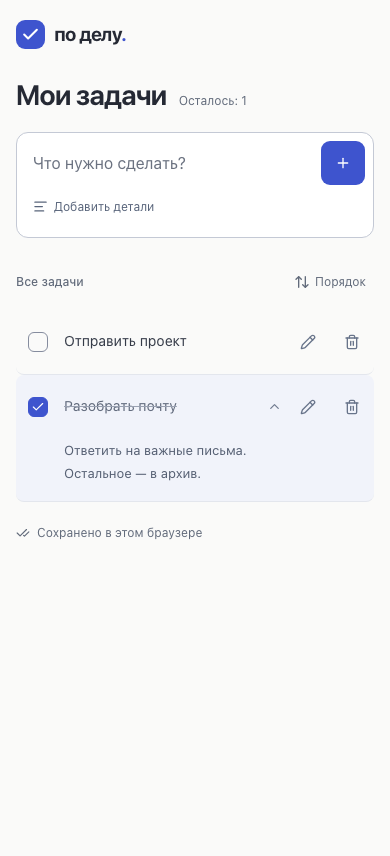
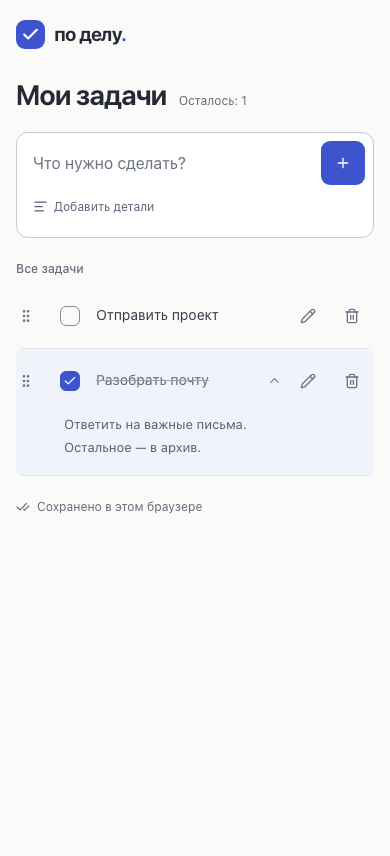
Make task drag handles immediately available without a mode switch

diff --git a/e2e/tasks.spec.ts b/e2e/tasks.spec.ts
@@ -28,8 +28,6 @@ async function keyboardMove(
   key: 'ArrowUp' | 'ArrowDown',
   target: string,
 ) {
-  const order = page.getByRole('button', { name: 'Порядок', exact: true })
-  if (await order.count()) await order.click()
   const handle = page.getByRole('button', { name: `Переместить: ${title}`, exact: true })
   await handle.focus()
   await page
@@ -474,7 +472,6 @@ test('pointer drag reorders by the handle, persists and does not toggle or expan
   await addTask(page, 'Первое')
   await addTask(page, 'Второе')
   await addTask(page, 'Третье')
-  await page.getByRole('button', { name: 'Порядок', exact: true }).click()
   await page.getByRole('button', { name: 'Переместить: Третье', exact: true }).focus()
   await page
     .locator('.task-list')
@@ -491,7 +488,7 @@ test('pointer drag reorders by the handle, persists and does not toggle or expan
   ).toHaveCount(1)
   const to = await page.locator('.task-list > .task-item:not([inert])').last().boundingBox()
   if (!to) throw new Error('Drop target must be rendered')
-  await page.mouse.move(to.x + to.width / 2, to.y + to.height / 2, { steps: 12 })
+  await page.mouse.move(from.x + from.width / 2, to.y + to.height / 2, { steps: 12 })
   await expect(
     page.locator('.task-list > .task-item:not([inert])[data-over="true"]').locator('.task-label'),
   ).toHaveText('Первое')
@@ -513,7 +510,6 @@ test('keyboard drag supports reorder and Escape cancellation', async ({ page }) 
   await addTask(page, 'Первое')
   await addTask(page, 'Второе')
   await addTask(page, 'Третье')
-  await page.getByRole('button', { name: 'Порядок', exact: true }).click()
   const handle = page.getByRole('button', { name: 'Переместить: Третье', exact: true })
   await handle.focus()
   await page
@@ -552,7 +548,6 @@ test('external updates during a drag cancel its commit instead of applying stale
   await addTask(page, 'Второе')
   const other = await context.newPage()
   await other.goto('/')
-  await page.getByRole('button', { name: 'Порядок', exact: true }).click()
   const handle = page.getByRole('button', { name: 'Переместить: Второе', exact: true })
   await handle.focus()
   await page
@@ -748,7 +743,6 @@ test('storage recovery with identical tasks does not invalidate an active drag',
   await page
     .locator('.task-list')
     .evaluate((element) => element.scrollIntoView({ block: 'center' }))
-  await page.getByRole('button', { name: 'Порядок', exact: true }).click()
   await page.getByRole('button', { name: 'Переместить: Второе', exact: true }).focus()
   await page.keyboard.press('Space')
   await expect(
@@ -895,7 +889,7 @@ test('arrow fully hides both single-line and multiline descriptions after repeat
   await audit(page)
 })
 
-test('compact rows keep actions aligned and reveal handles only in order mode', async ({
+test('compact rows keep drag, edit and delete available without a mode switch', async ({
   page,
 }) => {
   await addTask(page, 'Без описания')
@@ -904,7 +898,7 @@ test('compact rows keep actions aligned and reveal handles only in order mode', 
   await expect(
     page.getByRole('button', { name: 'Подробности: Без описания', exact: true }),
   ).toHaveCount(0)
-  await expect(page.getByRole('button', { name: /^Переместить:/ })).toHaveCount(0)
+  await expect(page.getByRole('button', { name: /^Переместить:/ })).toHaveCount(2)
   await expect(page.getByRole('listitem')).toHaveCount(2)
   const first = page.locator('.task-item').first()
   const row = await first.boundingBox()
@@ -914,13 +908,13 @@ test('compact rows keep actions aligned and reveal handles only in order mode', 
   expect(Math.abs(checkbox!.y + checkbox!.height / 2 - edit!.y - edit!.height / 2)).toBeLessThan(1)
   expect(edit!.width).toBeGreaterThanOrEqual(44)
   expect(edit!.height).toBeGreaterThanOrEqual(44)
-  await page.getByRole('button', { name: 'Порядок', exact: true }).press('Enter')
-  await expect(page.getByRole('button', { name: /^Переместить:/ })).toHaveCount(2)
-  await expect(page.getByRole('button', { name: /^Изменить:/ })).toHaveCount(0)
-  await audit(page)
-  await page.getByRole('button', { name: 'Готово', exact: true }).press('Enter')
-  await expect(page.getByRole('button', { name: /^Переместить:/ })).toHaveCount(0)
+  await expect(page.getByRole('button', { name: 'Порядок', exact: true })).toHaveCount(0)
   await expect(page.getByRole('button', { name: /^Изменить:/ })).toHaveCount(2)
+  const handle = await first.getByRole('button', { name: /^Переместить:/ }).boundingBox()
+  expect(handle!.width).toBeGreaterThanOrEqual(44)
+  expect(handle!.height).toBeGreaterThanOrEqual(44)
+  expect(handle!.x).toBeGreaterThanOrEqual(0)
+  expect(handle!.x + handle!.width).toBeLessThanOrEqual(checkbox!.x - 12 + 1)
   await expect(page.getByRole('checkbox').first()).toBeEnabled()
   await expect(page.getByRole('button', { name: /^Удалить:/ }).first()).toBeEnabled()
   await expect(page.getByRole('menu')).toHaveCount(0)
@@ -979,7 +973,6 @@ test('touch drag by the handle reorders tasks and persists without completing th
   await addTask(page, 'Первое')
   await addTask(page, 'Второе')
   await addTask(page, 'Третье')
-  await page.getByRole('button', { name: 'Порядок', exact: true }).tap()
   await page
     .locator('.task-list')
     .evaluate((element) => element.scrollIntoView({ block: 'center' }))
@@ -1018,7 +1011,32 @@ test('touch drag by the handle reorders tasks and persists without completing th
     await expect(page.getByRole('checkbox', { checked: true })).toHaveCount(0)
     await page.reload()
     await expect(page.locator('.task-label')).toHaveText(['Второе', 'Первое', 'Третье'])
-    await expect(page.getByRole('button', { name: /^Переместить:/ })).toHaveCount(0)
+    await expect(page.getByRole('button', { name: /^Переместить:/ })).toHaveCount(3)
+    for (let index = 0; index < 8; index++) await addTask(page, `Дополнительная задача ${index}`)
+    await input(page).blur()
+    await page.evaluate(() => scrollTo(0, 0))
+    const beforeScroll = await page.locator('.task-label').allTextContents()
+    const viewport = page.viewportSize()!
+    const scrollStart = viewport.height - 100
+    const scrollPoint = (nextY: number) => [
+      { x: viewport.width / 2, y: nextY, id: 0, radiusX: 6, radiusY: 6, force: 1 },
+    ]
+    await session.send('Input.dispatchTouchEvent', {
+      type: 'touchStart',
+      touchPoints: scrollPoint(scrollStart),
+    })
+    for (let step = 1; step <= 12; step++) {
+      await session.send('Input.dispatchTouchEvent', {
+        type: 'touchMove',
+        touchPoints: scrollPoint(scrollStart - (220 * step) / 12),
+      })
+    }
+    await session.send('Input.dispatchTouchEvent', { type: 'touchEnd', touchPoints: [] })
+    await expect.poll(() => page.evaluate(() => scrollY)).toBeGreaterThan(40)
+    await expect(
+      page.locator('.task-list > .task-item:not([inert])[data-dragging="true"]'),
+    ).toHaveCount(0)
+    await expect(page.locator('.task-label')).toHaveText(beforeScroll)
   } finally {
     await session
       .send('Input.dispatchTouchEvent', { type: 'touchCancel', touchPoints: [] })

diff --git a/src/components/sortable-task-list.tsx b/src/components/sortable-task-list.tsx
@@ -12,7 +12,6 @@ import type { Task } from '@/domain/tasks'
 type Move = (id: string, overId: string, expected?: readonly Task[]) => void
 interface Props {
   tasks: readonly Task[]
-  ordering: boolean
   onToggle: (id: string) => void
   onDelete: (task: Task, index: number) => void
   onEdit: (task: Task) => void
@@ -26,7 +25,6 @@ function TaskRow({
   onToggle,
   onDelete,
   onEdit,
-  ordering,
 }: Props & { task: Task; index: number }) {
   const [open, setOpen] = useState(false)
   const hasDescription = !!task.description
@@ -37,7 +35,7 @@ function TaskRow({
   const { ref, handleRef, isDragSource, isDropTarget } = useSortable({
     id: task.id,
     index,
-    disabled: !ordering || tasks.length < 2,
+    disabled: tasks.length < 2,
     transition: null,
     // Keep React as the sole owner of list order, including during external updates.
     plugins: (defaults) => defaults.filter((plugin) => plugin !== OptimisticSortingPlugin),
@@ -52,7 +50,21 @@ function TaskRow({
         data-over={isDropTarget}
         data-done={task.done}
       >
-        <div className="task-row">
+        <div className="task-row" data-sortable={tasks.length > 1}>
+          {/* Keep a stable sensor target so dnd-kit never annotates the entire row as a button. */}
+          <Button
+            ref={handleRef}
+            id={`drag-${task.id}`}
+            variant="ghost"
+            size="icon"
+            className="drag-handle"
+            hidden={tasks.length < 2}
+            disabled={tasks.length < 2}
+            aria-label={`Переместить: ${task.title}`}
+          >
+            <GripVertical size={17} aria-hidden="true" />
+          </Button>
+
           <Checkbox
             id={`task-${task.id}`}
             checked={task.done}
@@ -79,32 +91,17 @@ function TaskRow({
             </span>
           )}
           <div className="task-actions">
-            {/* Keep a stable sensor target so dnd-kit never annotates the entire row as a button. */}
             <Button
-              ref={handleRef}
-              id={`drag-${task.id}`}
+              id={`edit-${task.id}`}
               variant="ghost"
               size="icon"
-              className="drag-handle"
-              hidden={!ordering || tasks.length < 2}
-              disabled={!ordering || tasks.length < 2}
-              aria-label={`Переместить: ${task.title}`}
+              className="edit-button"
+              onClick={() => onEdit(task)}
+              aria-label={`Изменить: ${task.title}`}
+              title="Редактировать задачу"
             >
-              <GripVertical size={17} aria-hidden="true" />
+              <Pencil size={16} aria-hidden="true" />
             </Button>
-            {(!ordering || tasks.length < 2) && (
-              <Button
-                id={`edit-${task.id}`}
-                variant="ghost"
-                size="icon"
-                className="edit-button"
-                onClick={() => onEdit(task)}
-                aria-label={`Изменить: ${task.title}`}
-                title="Редактировать задачу"
-              >
-                <Pencil size={16} aria-hidden="true" />
-              </Button>
-            )}
             <Button
               id={`delete-${task.id}`}
               variant="ghost"

diff --git a/src/App.tsx b/src/App.tsx
@@ -1,5 +1,5 @@
 import { useEffect, useLayoutEffect, useRef, useState, useSyncExternalStore } from 'react'
-import { Check, CheckCheck, ListTodo, RotateCcw, ArrowUpDown, TriangleAlert } from 'lucide-react'
+import { Check, CheckCheck, ListTodo, RotateCcw, TriangleAlert } from 'lucide-react'
 import { Button } from '@/components/ui/button'
 import { Alert, AlertTitle, AlertDescription } from '@/components/ui/alert'
 import type { Task } from '@/domain/tasks'
@@ -44,7 +44,6 @@ const storageMessages = {
 export default function App({ store, backend }: AppProps) {
   const snapshot = useSyncExternalStore(store.subscribe, store.getSnapshot)
   const { tasks, deleted, persistence } = snapshot
-  const [ordering, setOrdering] = useState(false)
   const [editing, setEditing] = useState<Task | null>(null)
   const [dragNotice, setDragNotice] = useState<string | null>(null)
   const pendingFocus = useRef<string | null>(null)
@@ -190,29 +189,7 @@ export default function App({ store, backend }: AppProps) {
               <h2 id="list-title">
                 Все задачи <span className="sr-only">{tasks.length}</span>
               </h2>
-              {(tasks.length > 1 || ordering) && (
-                <Button
-                  id="order-mode"
-                  variant="ghost"
-                  size="sm"
-                  className="order-button"
-                  aria-pressed={ordering}
-                  onClick={() => setOrdering((value) => !value)}
-                >
-                  {ordering ? (
-                    <Check size={15} aria-hidden="true" />
-                  ) : (
-                    <ArrowUpDown size={15} aria-hidden="true" />
-                  )}
-                  {ordering ? 'Готово' : 'Порядок'}
-                </Button>
-              )}
             </div>
-            {ordering && (
-              <p className="sort-hint" role="status">
-                Перетаскивайте задачи за ручку. С клавиатуры: пробел, стрелки, Enter.
-              </p>
-            )}
             {tasks.length === 0 ? (
               <div className="empty-state">
                 <ListTodo size={25} strokeWidth={1.5} aria-hidden="true" />
@@ -222,7 +199,6 @@ export default function App({ store, backend }: AppProps) {
             ) : (
               <SortableTaskList
                 tasks={tasks}
-                ordering={ordering}
                 onToggle={(id) => store.dispatch({ type: 'toggle', id })}
                 onDelete={removeTask}
                 onEdit={setEditing}

diff --git a/src/index.css b/src/index.css
@@ -261,24 +261,6 @@ textarea:focus-visible {
   color: #626b7b;
   font-weight: 500;
 }
-.order-button {
-  min-height: 44px;
-  height: auto;
-  padding: 0 8px;
-  font-size: 12px;
-  color: #626b7b;
-  gap: 5px;
-}
-.order-button[aria-pressed='true'] {
-  color: var(--primary);
-  background: #eef1fc;
-}
-.sort-hint {
-  margin: 0 0 10px;
-  color: #626b7b;
-  font-size: 12px;
-  line-height: 1.65;
-}
 .task-list {
   margin: 0;
   padding: 0;
@@ -291,6 +273,7 @@ textarea:focus-visible {
   border-radius: 8px;
 }
 .task-row {
+  position: relative;
   display: flex;
   align-items: center;
   gap: 0;
@@ -369,13 +352,18 @@ textarea:focus-visible {
   border-radius: 8px;
   color: #68748a;
 }
-.edit-button:hover,
-.delete-button:hover,
-.delete-button:active {
+.edit-button:hover {
   color: var(--primary);
   background: #eef1fc;
 }
+.task-row[data-sortable='true'] {
+  padding-left: 32px;
+}
 .drag-handle {
+  position: absolute;
+  left: -12px;
+  top: 50%;
+  transform: translateY(-50%);
   cursor: grab;
   touch-action: none;
 }

diff --git a/README.md b/README.md
@@ -40,9 +40,9 @@ FIREFOX=1 npm run test:e2e -- --project=firefox
 - Добавление кнопкой или Enter; новые задачи появляются сверху. Пробелы по краям убираются, пустой ввод отклоняется, лимит — 300 UTF-16 единиц, как у HTML `maxlength`. Одинаковые названия допустимы.
 - Единая форма: «Добавить детали» раскрывает описание и переводит фокус в него; сворачивание сохраняет черновик, добавление очищает форму. Описание задачи полностью скрыто до раскрытия заголовком или стрелкой.
 - Описание по желанию: до 2000 UTF-16 единиц, с сохранением переносов строк. Заголовок и стрелка раскрывают детали только при наличии описания; чекбокс независимо отмечает выполнение.
-- Карандаш и корзина доступны прямо в строке одним нажатием. В режиме изменения порядка карандаш заменяется ручкой переноса.
+- Карандаш и корзина доступны прямо в строке одним нажатием. Ручка переноса расположена слева и не заменяет редактирование.
 - Изменение заголовка и описания с сохранением статуса и позиции. При внешней правке черновик остаётся в редакторе: можно загрузить актуальную версию или добавить черновик отдельной задачей.
-- Drag-and-drop за отдельную ручку: мышь, Pointer Events и клавиатура. Пробел/Enter начинает и завершает перенос, стрелки выбирают позицию, Escape отменяет. Ручки появляются после нажатия «Порядок»; «Готово» возвращает обычный список. Для касания используется удержание ручки, затем перенос; порядок сохраняется после отпускания. Кнопок «Выше/Ниже» нет.
+- Drag-and-drop за отдельную ручку: мышь, Pointer Events и клавиатура. Пробел/Enter начинает и завершает перенос, стрелки выбирают позицию, Escape отменяет. Ручка слева доступна сразу, когда в списке больше одной задачи. Отдельного режима сортировки нет. Для касания используется удержание ручки, затем перенос; порядок сохраняется после отпускания. Кнопок «Выше/Ниже» нет.
 - Заголовок в списке занимает одну строку на компьютере и до двух на телефоне; длинный текст сокращается многоточием и остаётся полностью доступен в редакторе.
 - Выполнение и возврат в работу без изменения порядка. Ручной порядок сохраняется после перезагрузки.
 - Удаление с отменой **последнего** удаления. Восстановление ориентируется на соседние задачи даже после перестановки. Отмена не исчезает по таймеру; доступна до следующего удаления, внешнего обновления или перезагрузки.
@@ -52,7 +52,7 @@ FIREFOX=1 npm run test:e2e -- --project=firefox
 
 ## Интерфейс
 
-Компактный список: короткая шапка, поле добавления с кнопкой «+», раскрываемое описание и задачи сразу под формой. В строке нет дополнительных панелей действий: карандаш и корзина остаются в том же ряду даже на 320 px. Заголовок задачи без описания статичен, поэтому стрелка не обещает пустое раскрытие. Слоганы, вложенные карточки и постоянные инструкции убраны; подсказка переноса появляется только в режиме «Порядок».
+Компактный список: короткая шапка, поле добавления с кнопкой «+», раскрываемое описание и задачи сразу под формой. В строке нет дополнительных панелей действий: карандаш и корзина остаются в том же ряду даже на 320 px. Заголовок задачи без описания статичен, поэтому стрелка не обещает пустое раскрытие. Слоганы, вложенные карточки и постоянные инструкции убраны; ручка переноса всегда доступна слева при наличии нескольких задач.
 
 ## Решения
 
